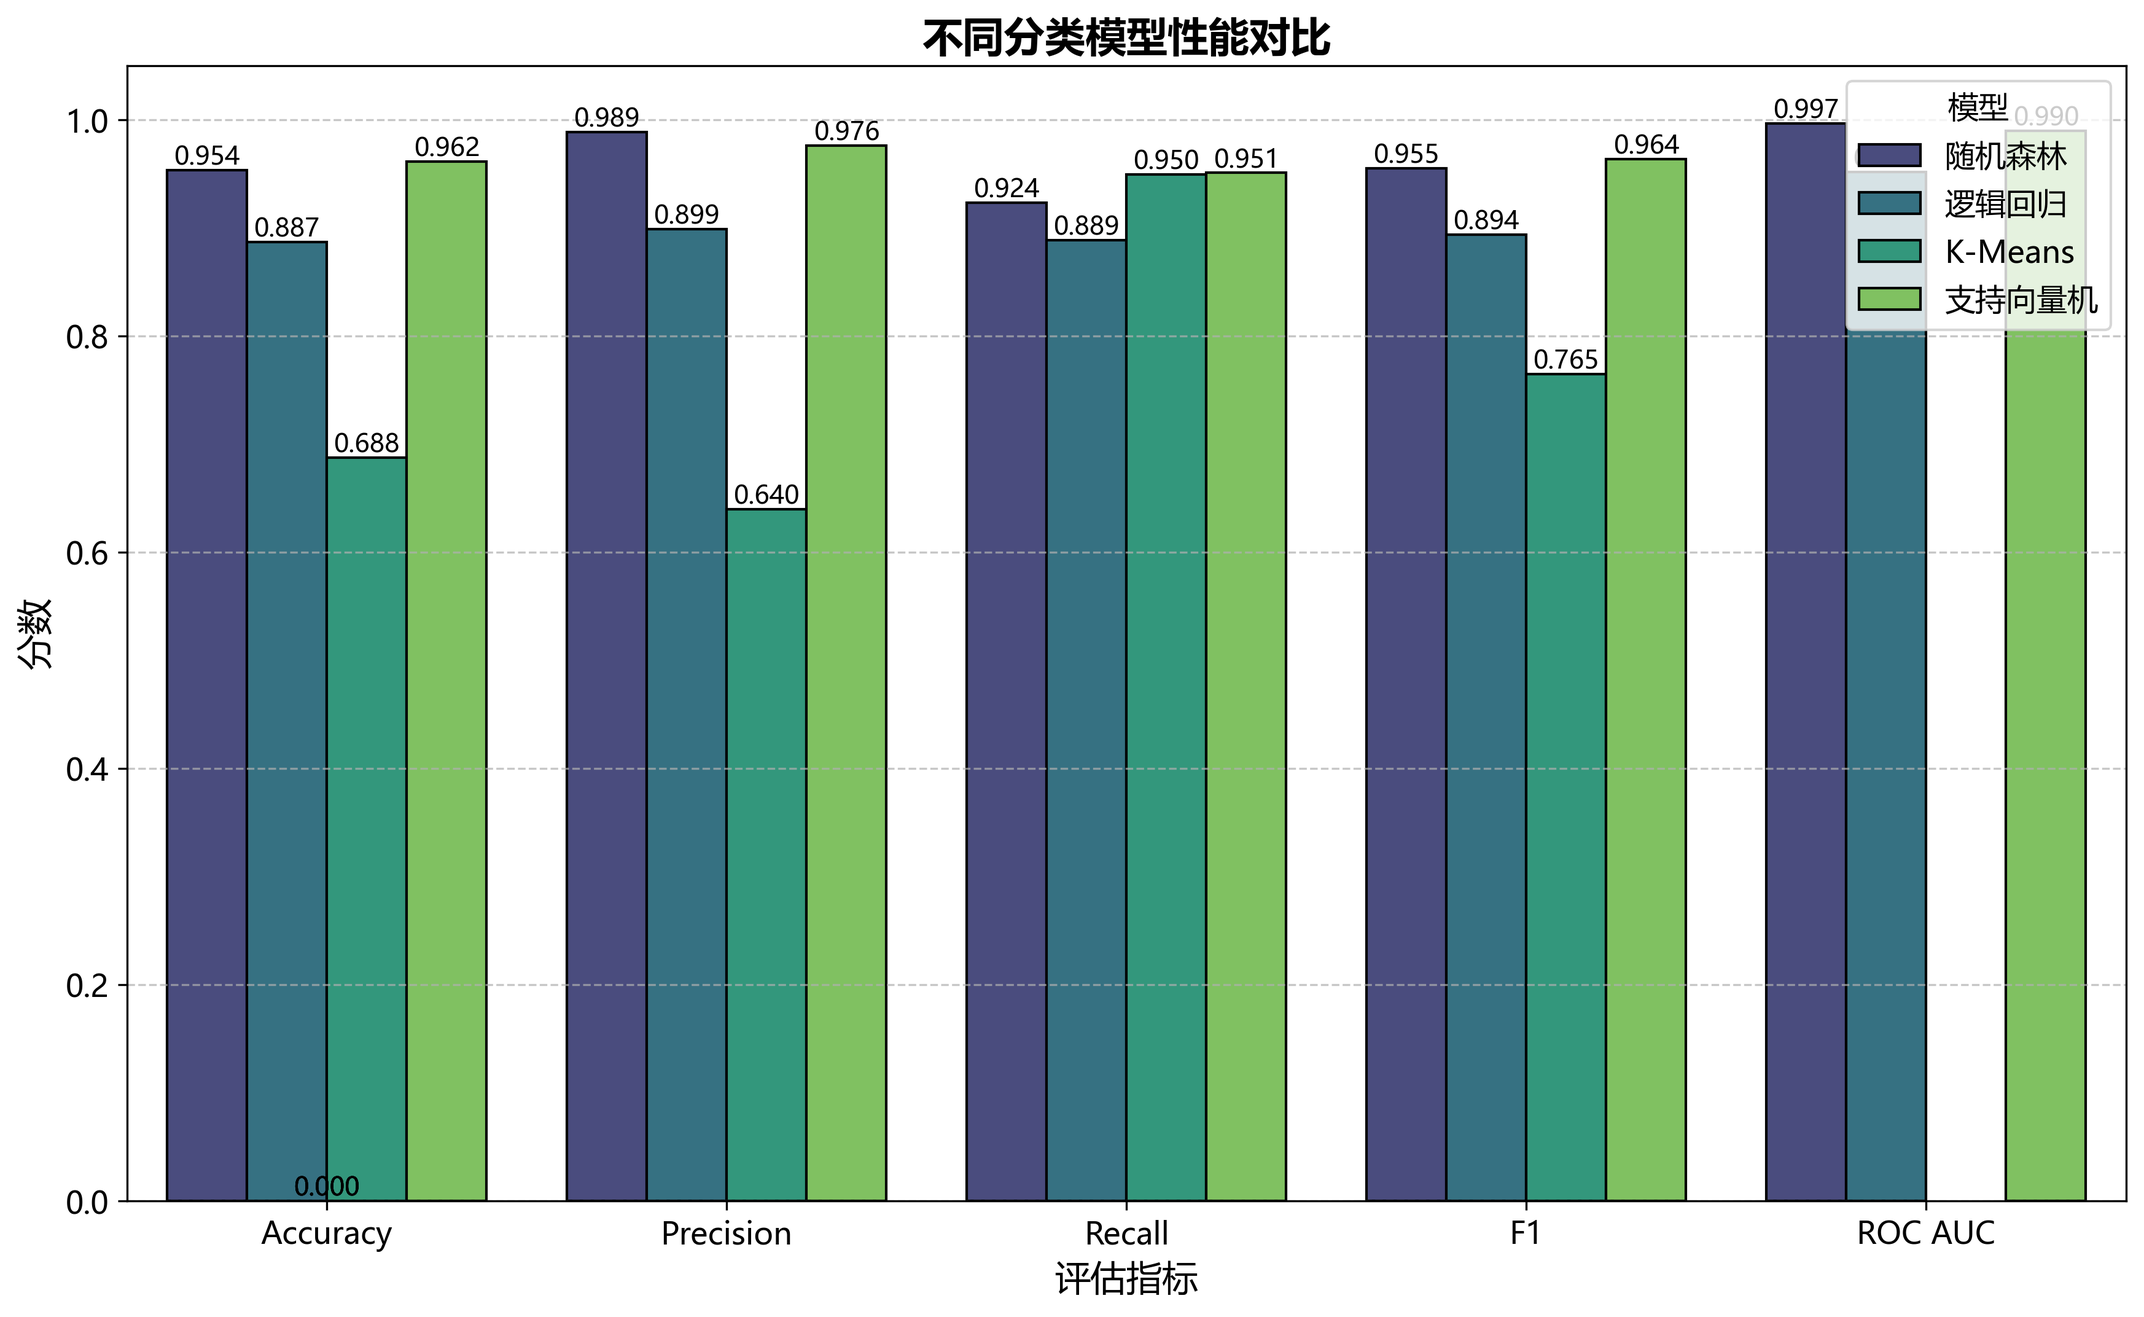
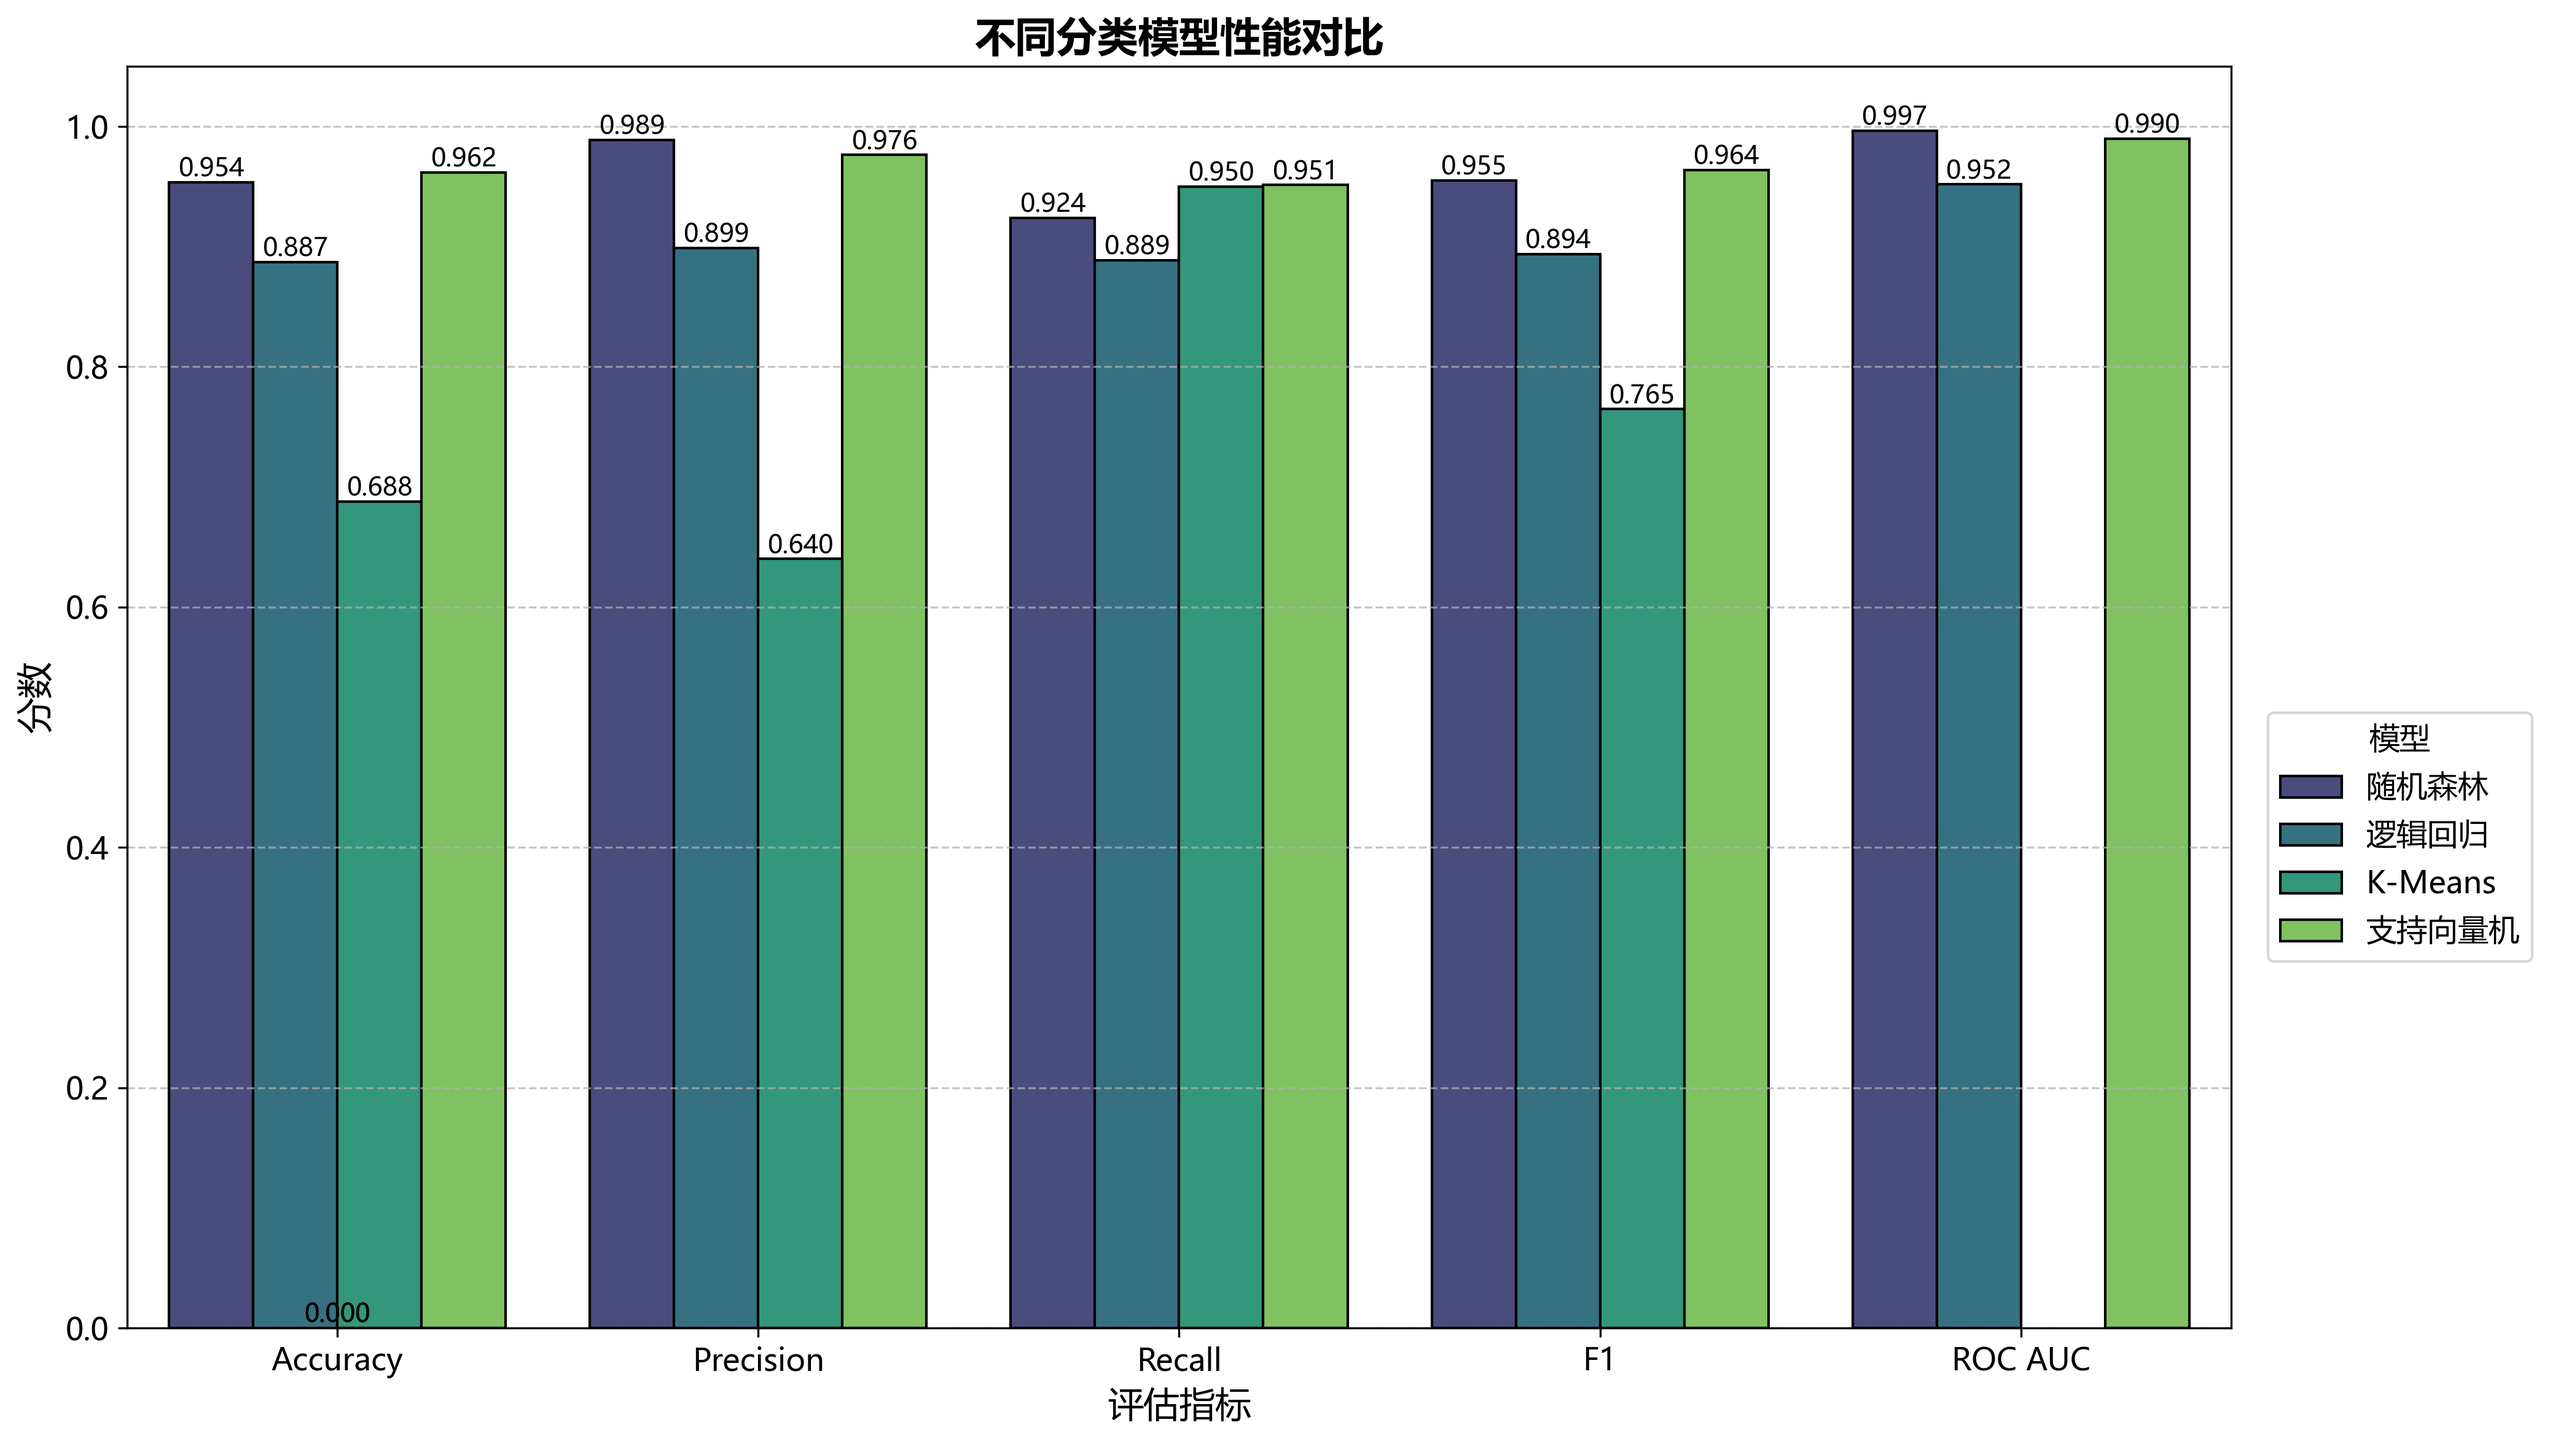
更新模型性能对比分析日志，调整图例位置并优化布局

diff --git a/Final/Model/Compare.py b/Final/Model/Compare.py
@@ -115,7 +115,8 @@ def compare_models():
     plt.ylabel('分数', fontsize=14)
     plt.xlabel('评估指标', fontsize=14)
     plt.ylim(0, 1.05)
-    plt.legend(title='模型', loc='best', fontsize=12)
+    plt.legend(title='模型', loc='best', fontsize=12, bbox_to_anchor=(1.01, 0.5))
+    plt.tight_layout()
     plt.grid(axis='y', linestyle='--', alpha=0.7)
 
     # 添加数据标签
